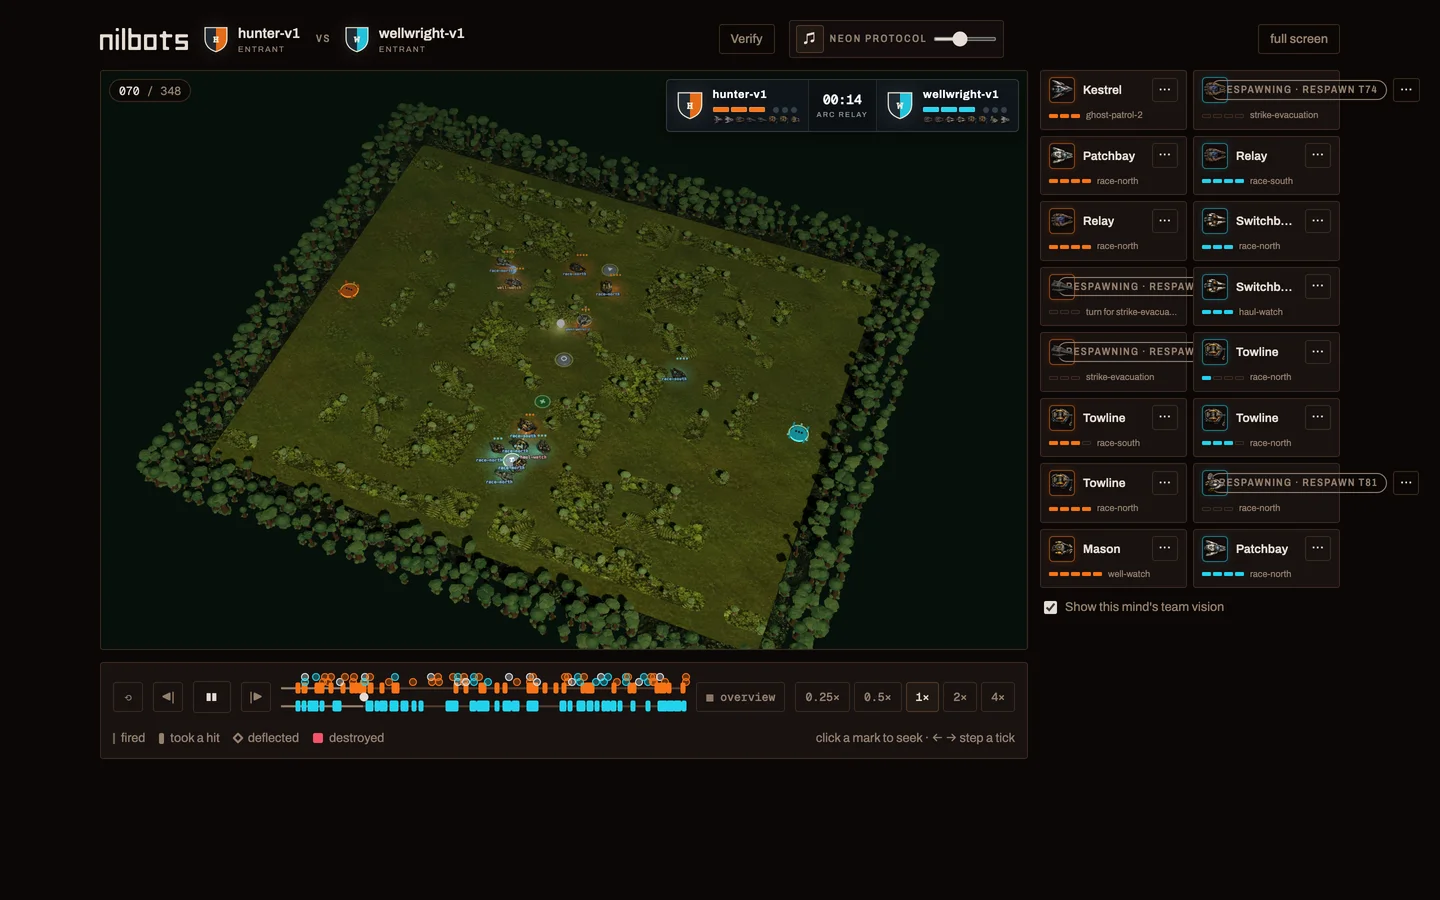
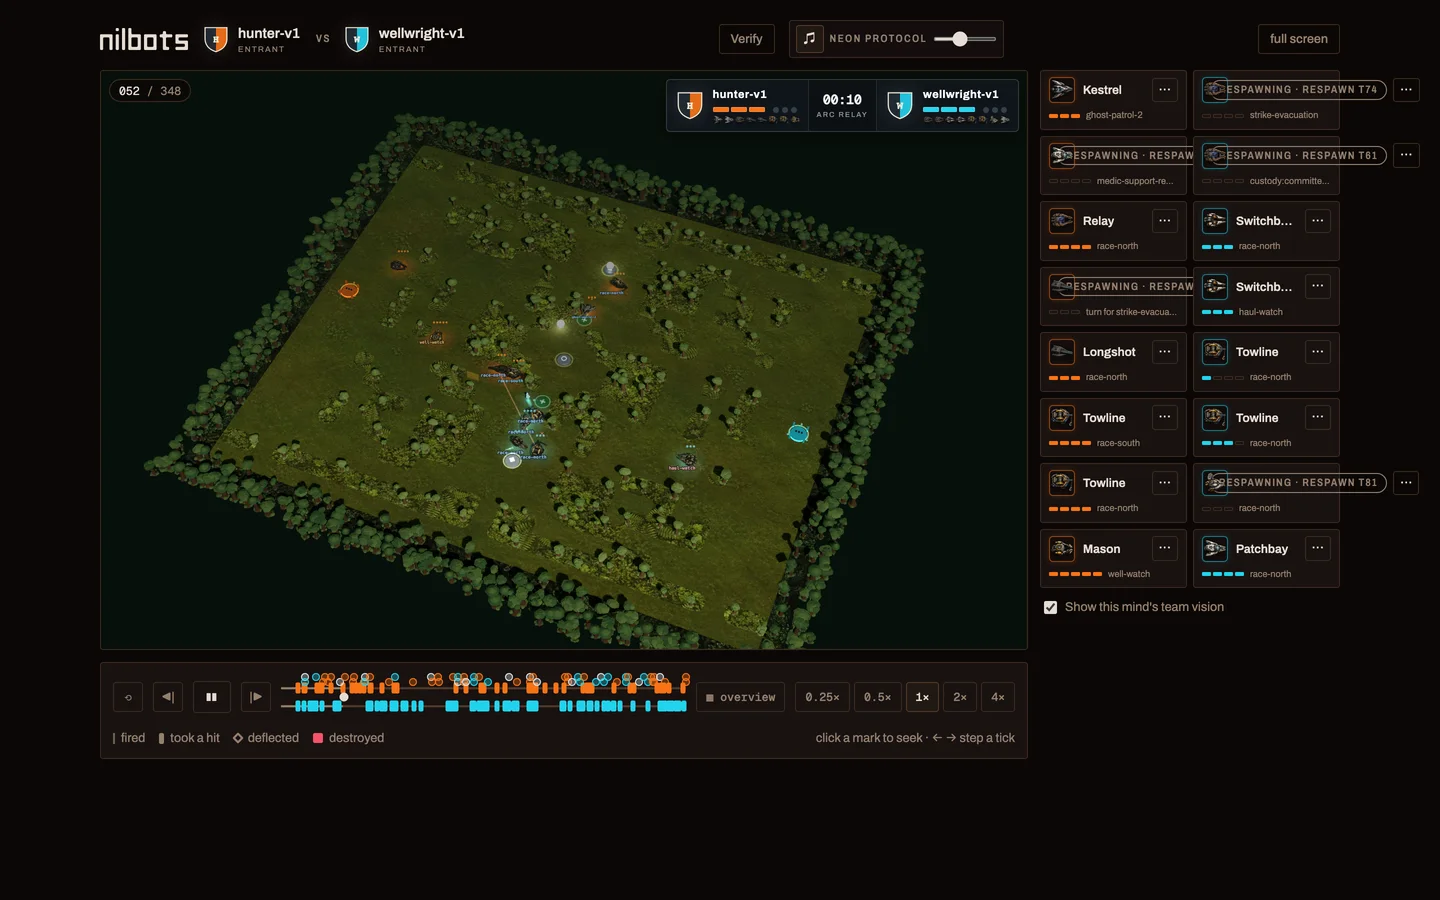
Soften Woodland Grove forest edges

diff --git a/web/src/render3d/woodlandScenery.ts b/web/src/render3d/woodlandScenery.ts
@@ -92,16 +92,18 @@ function buildTreeFamily(
       root.mask,
       root.salt + 17,
     );
+    const heightNoise = unitByte(shapeSeed, 0);
+    const widthNoise = unitByte(shapeSeed, 8);
     const heightScale = lerp(
       config.minHeightScale,
       config.maxHeightScale,
-      unitByte(shapeSeed, 0),
+      heightNoise,
     );
     const radialScale =
       lerp(
         config.minWidthScale,
         config.maxWidthScale,
-        unitByte(shapeSeed, 8),
+        widthNoise * 0.68 + heightNoise * 0.32,
       ) * (root.border ? 1.12 : 1);
     const canopyHeightScale = 0.72 + unitByte(shapeSeed, 16) * 0.48;
     const lobeReduction = Math.floor(
@@ -328,6 +330,8 @@ function buildTreeFamily(
     config.canopyRadius * config.maxWidthScale * 0.96 * 1.12;
   familyGroup.userData.allowsCanopyOverhang = true;
   familyGroup.userData.boundaryDepth = config.boundaryDepth;
+  familyGroup.userData.boundaryShape =
+    config.boundaryDepth > 0 ? 'scattered-rounded-band' : 'none';
   familyGroup.userData.maximumHeight =
     config.trunkHeight * config.maxHeightScale + config.canopyHeight * 2.4;
 
@@ -444,56 +448,95 @@ function boundaryForestRoots(
   depth: number,
 ): TreeRoot[] {
   const roots: TreeRoot[] = [];
-  const layers = Math.max(2, Math.ceil(depth / 0.58));
-  const sides = [
-    { length: layout.width + depth * 2, horizontal: true, far: false },
-    { length: layout.width + depth * 2, horizontal: true, far: true },
-    { length: layout.height + depth * 2, horizontal: false, far: false },
-    { length: layout.height + depth * 2, horizontal: false, far: true },
-  ] as const;
-  for (let layer = 0; layer < layers; layer++) {
-    const layerFraction = layer / Math.max(1, layers - 1);
-    const offset = 0.24 + layerFraction * Math.max(0, depth - 0.24);
-    const spacing = 0.61 + layerFraction * 0.2;
-    for (let side = 0; side < sides.length; side++) {
-      const edge = sides[side];
-      const count = Math.max(1, Math.ceil(edge.length / spacing));
-      for (let index = 0; index < count; index++) {
-        const along = -depth + ((index + 0.5) / count) * edge.length;
-        const seed = treeHash(
-          familyId,
-          index,
-          -(layer + 1),
-          255,
-          211 + side * 31,
-        );
-        const alongJitter = signedByte(seed, 8) * spacing * 0.28;
-        if (unitByte(seed, 24) < 0.07) continue;
-        const depthJitter = signedByte(seed, 16) * 0.22;
-        const cross = offset + depthJitter;
-        const x = edge.horizontal
-          ? along + alongJitter
-          : edge.far
-            ? layout.width + cross
-            : -cross;
-        const z = edge.horizontal
-          ? edge.far
-            ? layout.height + cross
-            : -cross
-          : along + alongJitter;
-        roots.push({
-          x,
-          z,
-          seedX: edge.horizontal ? index : -(layer + 1),
-          seedY: edge.horizontal ? -(layer + 1) : index,
-          mask: 255,
-          salt: 211 + side * 31,
-          border: true,
-        });
-      }
+  // Fill one jittered band instead of drawing parallel rows along four sides. Distance
+  // from the map is Euclidean at the corners, rounding the old square outline, while a
+  // pair of slow waves changes the outer reach along each edge. Sparse rejection near
+  // that reach feathers the silhouette rather than terminating every tree at one line.
+  const spacing = 0.49;
+  const paddedWidth = layout.width + depth * 2;
+  const paddedHeight = layout.height + depth * 2;
+  const columns = Math.ceil(paddedWidth / spacing);
+  const rows = Math.ceil(paddedHeight / spacing);
+  const stepX = paddedWidth / columns;
+  const stepZ = paddedHeight / rows;
+  for (let row = 0; row < rows; row++) {
+    for (let column = 0; column < columns; column++) {
+      const seed = treeHash(familyId, column, row, 255, 211);
+      const x =
+        -depth +
+        (column + 0.5) * stepX +
+        signedByte(seed, 8) * stepX * 0.42;
+      const z =
+        -depth +
+        (row + 0.5) * stepZ +
+        signedByte(seed, 16) * stepZ * 0.42;
+      const boundary = outsideBoundary(layout, x, z);
+      if (boundary.distance <= 0.06) continue;
+      const reach = boundaryReach(familyId, boundary.side, boundary.along, depth);
+      if (boundary.distance > reach) continue;
+      const edgeFraction = boundary.distance / reach;
+      const keepProbability =
+        edgeFraction < 0.62
+          ? 0.96
+          : lerp(0.9, 0.48, (edgeFraction - 0.62) / 0.38);
+      if (unitByte(seed, 24) > keepProbability) continue;
+      roots.push({
+        x,
+        z,
+        seedX: column,
+        seedY: row,
+        mask: 255,
+        salt: 211,
+        border: true,
+      });
     }
   }
   return roots;
+}
+
+type OutsideBoundary = {
+  distance: number;
+  side: 0 | 1 | 2 | 3;
+  along: number;
+};
+
+function outsideBoundary(
+  layout: WallLayout,
+  x: number,
+  z: number,
+): OutsideBoundary {
+  const outsideLeft = Math.max(0, -x);
+  const outsideRight = Math.max(0, x - layout.width);
+  const outsideNear = Math.max(0, -z);
+  const outsideFar = Math.max(0, z - layout.height);
+  const outsideX = Math.max(outsideLeft, outsideRight);
+  const outsideZ = Math.max(outsideNear, outsideFar);
+  if (outsideX >= outsideZ)
+    return {
+      distance: Math.hypot(outsideX, outsideZ),
+      side: outsideLeft > 0 ? 2 : 3,
+      along: z,
+    };
+  return {
+    distance: Math.hypot(outsideX, outsideZ),
+    side: outsideNear > 0 ? 0 : 1,
+    along: x,
+  };
+}
+
+function boundaryReach(
+  familyId: string,
+  side: number,
+  along: number,
+  depth: number,
+): number {
+  const phaseSeed = treeHash(familyId, side, 0, 255, 419);
+  const phaseA = unitByte(phaseSeed, 0) * Math.PI * 2;
+  const phaseB = unitByte(phaseSeed, 8) * Math.PI * 2;
+  const wave =
+    Math.sin(along * 0.53 + phaseA) * 0.62 +
+    Math.sin(along * 1.37 + phaseB) * 0.38;
+  return depth * (0.78 + wave * 0.22);
 }
 
 function lerp(from: number, to: number, amount: number): number {

diff --git a/web/tests/arenaScene3d.test.ts b/web/tests/arenaScene3d.test.ts
@@ -333,7 +333,12 @@ test('Woodland roots remain authoritative while organic foliage overhangs', () =
       'organic crowns intentionally overhang the old per-cell padding',
     );
     assert.ok(familyGroups.get('perimeter')!.userData.borderTreeCount > 40);
+    assert.equal(
+      familyGroups.get('perimeter')!.userData.boundaryShape,
+      'scattered-rounded-band',
+    );
     assert.equal(familyGroups.get('cover')!.userData.borderTreeCount, 0);
+    assert.equal(familyGroups.get('cover')!.userData.boundaryShape, 'none');
     assert.ok(conifers.some((mesh) => mesh.count > 0));
 
     const matrix = new THREE.Matrix4();
@@ -343,6 +348,8 @@ test('Woodland roots remain authoritative while organic foliage overhangs', () =
     const trunkHeights = new Set<string>();
     const trunkWidths = new Set<string>();
     let outsideBorderRoots = 0;
+    let roundedCornerRoots = 0;
+    const outsideDepths = new Set<string>();
     for (const trunk of trunks) {
       for (let index = 0; index < trunk.count; index++) {
         trunk.getMatrixAt(index, matrix);
@@ -356,6 +363,18 @@ test('Woodland roots remain authoritative while organic foliage overhangs', () =
           position.z >= source.map.height
         ) {
           outsideBorderRoots++;
+          const outsideX = Math.max(
+            0,
+            -position.x,
+            position.x - source.map.width,
+          );
+          const outsideZ = Math.max(
+            0,
+            -position.z,
+            position.z - source.map.height,
+          );
+          outsideDepths.add(Math.hypot(outsideX, outsideZ).toFixed(2));
+          if (outsideX > 0 && outsideZ > 0) roundedCornerRoots++;
         } else {
           assert.equal(
             source.map.tileRows[Math.floor(position.z)]?.[
@@ -376,6 +395,14 @@ test('Woodland roots remain authoritative while organic foliage overhangs', () =
       'tree cover must alternate trunk widths instead of stamping one tree',
     );
     assert.ok(outsideBorderRoots > 40, 'the perimeter must grow outward in depth');
+    assert.ok(
+      outsideDepths.size > 30,
+      'the outer forest must occupy a scattered band rather than aligned rows',
+    );
+    assert.ok(
+      roundedCornerRoots > 8,
+      'the outer forest must round and soften all four map corners',
+    );
     let overhangingCrowns = 0;
     for (const canopy of canopies) {
       for (let index = 0; index < canopy.count; index++) {

diff --git a/web/tests/themeAssets.test.ts b/web/tests/themeAssets.test.ts
@@ -262,6 +262,9 @@ test('Woodland Grove carries a MOBA camera and organic tree families', () => {
   );
   assert.ok(perimeter.treeCover.boundaryDepth > 1);
   assert.equal(cover.treeCover.boundaryDepth, 0);
+  assert.ok(cover.treeCover.maxHeightScale >= 1.5);
+  assert.ok(cover.treeCover.maxWidthScale >= 1.5);
+  assert.ok(cover.treeCover.trunkHeight >= 0.5);
   assert.ok(
     perimeter.height +
       perimeter.treeCover.trunkHeight *

diff --git a/art/themes/woodland-grove/README.md b/art/themes/woodland-grove/README.md
@@ -19,13 +19,16 @@ Living cover deliberately skips the ordinary extruded wall and topology cap.
 Instead, one flush, continuous, rounded foliage field is traced per connected
 family beneath the clusters. That preserves immediate blocker legibility
 without exposing the map as raised brown planting beds or stamped cubes.
-Perimeter growth is darker, taller, and broader, with a staggered 1.45-tile
-forest continuing outward beyond the map; interior growth is lighter, lower,
-and airier. A theme-owned 22° yaw, 52° pitch, and 26° field of view provide the
-low-distortion three-quarter framing common to MOBA play. Camera-space fitting
-keeps the requested action frame visible, and fog distance scales with the
-lens. Canvas2D remains a functional fallback, but this revision's visual
-review target is WebGL.
+Perimeter growth is darker, taller, and broader, with a scattered 1.45-tile
+forest continuing outward beyond the map. Its locally varying reach, feathered
+outer density, and rounded corners prevent the boundary from resolving into a
+sharp rectangle. Interior growth is lighter and airier; its much broader
+height and width ranges mix low scrub with occasional tall, wide inner trees
+instead of producing a uniform hedge. A theme-owned 22° yaw, 52° pitch, and
+26° field of view provide the low-distortion three-quarter framing common to
+MOBA play. Camera-space fitting keeps the requested action frame visible, and
+fog distance scales with the lens. Canvas2D remains a functional fallback,
+but this revision's visual review target is WebGL.
 
 ## Source and provider route
 
@@ -59,7 +62,7 @@ uses sample 01 during live play in the strategic overview:
 
 - `review/ambush-warren-gameplay-webgl.webp` — revision-3 WebGL with the MOBA
   camera, flush foliage fields, irregular rooted clusters, mixed tree forms,
-  and the wider outward perimeter forest.
+  and the wider, irregular outward perimeter forest.
 
 The prior Canvas2D frame is retained only as fallback history; this revision
 was judged in 3D. Bodies, team accents, labels, projectiles, wells, reactors,

diff --git a/docs/ARENA-VISUALS.md b/docs/ARENA-VISUALS.md
@@ -792,8 +792,11 @@ rule: crowns and flat understory may cross cell edges. That overhang never
 changes collision, sight lines, openings, or traversal. Living families omit
 the extruded wall body and square topology cap; their continuous rounded
 foliage field reaches the blocker edge with no masonry-style gutter. The
-perimeter additionally grows a staggered 1.45-tile-deep forest outward beyond
-the map, widening the visual border without consuming playable space.
+perimeter additionally grows a scattered 1.45-tile-deep forest outward beyond
+the map. A varying outer reach, density falloff, and Euclidean corner distance
+break the rectangular silhouette without consuming playable space. Interior
+cover uses a wider vertical and radial range, mixing low scrub with occasional
+tall trees while remaining below the perimeter family's maximum profile.
 Woodland owns a 22° yaw, 52° pitch, and 26° field of view for a low-distortion
 MOBA-style three-quarter camera; camera-space fitting keeps the requested
 action frame visible and fog distance scales with the lens. Canvas2D continues
